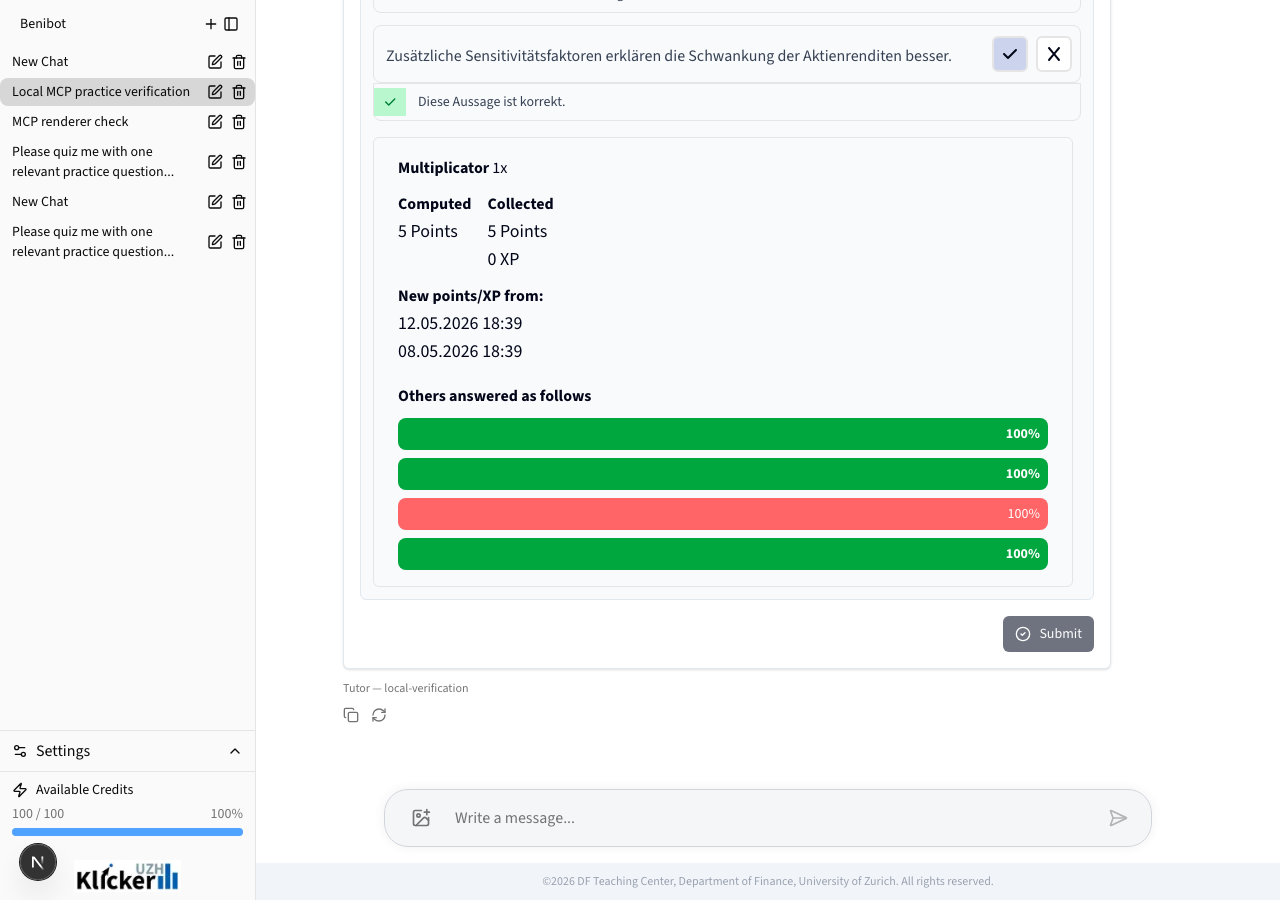
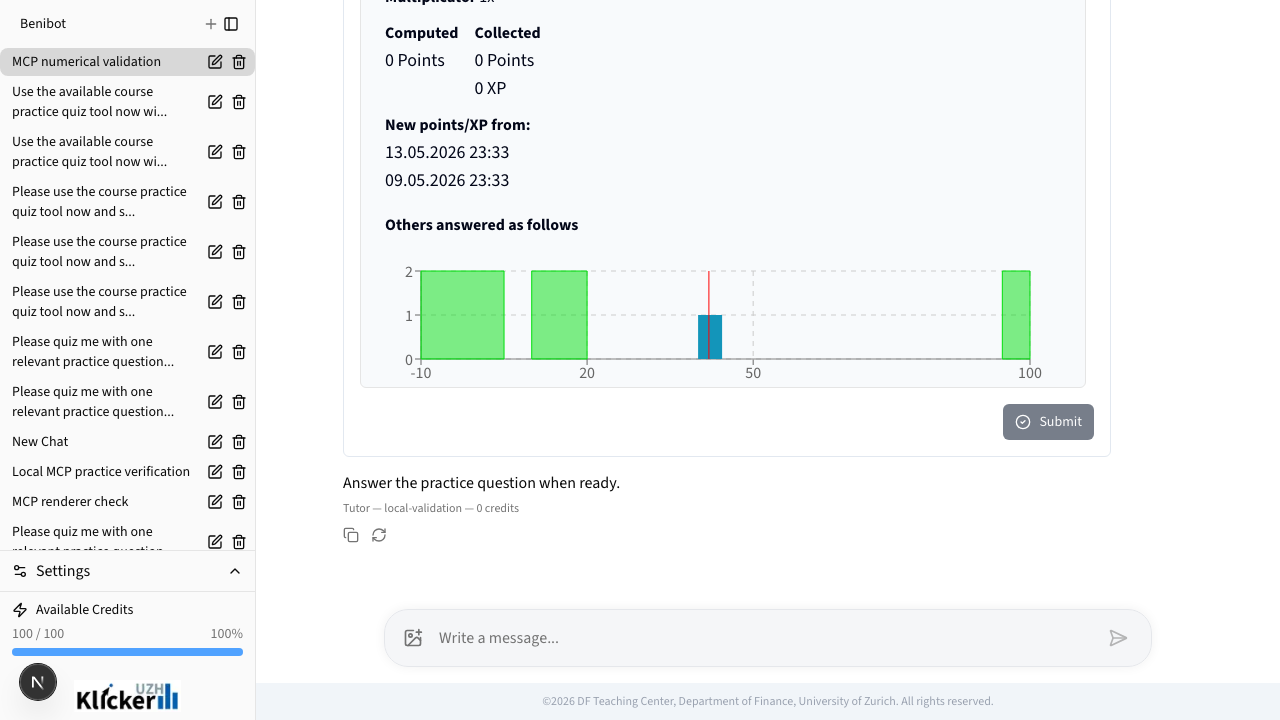
fix(mcp-student): harden student practice release path

diff --git a/apps/mcp-student/src/practice.ts b/apps/mcp-student/src/practice.ts
@@ -5,6 +5,7 @@ import {
   type StudentMcpPracticeQuiz as PracticeQuiz,
   type StudentMcpPracticeStack as PracticeStack,
   type StudentMcpQuestionRefPayload as QuestionRefPayload,
+  type StudentMcpSafeElementOptions as SafeElementOptions,
   type StudentMcpSafeStackRenderPayload as SafeStackRenderPayload,
   type StudentMcpStackResponseInput as StackResponseInput,
   type StudentMcpSupportedElementType as SupportedElementType,
@@ -28,7 +29,7 @@ function isSupportedElementType(type: string): type is SupportedElementType {
 }
 
 function orderedElements(stack: PracticeStack) {
-  return [...(stack.elements ?? [])].sort((a, b) => a.id - b.id)
+  return [...(stack.elements ?? [])]
 }
 
 export function toSupportedElementTypes(
@@ -92,7 +93,21 @@ export function assertQuestionRefMatchesStack(
     stack,
   })
 
-  if (JSON.stringify(current) !== JSON.stringify(ref)) {
+  const matches =
+    current.participantId === ref.participantId &&
+    current.chatbotId === ref.chatbotId &&
+    current.courseId === ref.courseId &&
+    current.stackId === ref.stackId &&
+    current.orderedElements.length === ref.orderedElements.length &&
+    current.orderedElements.every((element, index) => {
+      const expected = ref.orderedElements[index]
+      return (
+        element.instanceId === expected?.instanceId &&
+        element.type === expected?.type
+      )
+    })
+
+  if (!matches) {
     throw new Error('questionRef no longer matches the practice stack')
   }
 }
@@ -270,11 +285,11 @@ function elementDataTypename(elementType: SupportedElementType): string {
 function safeOptionsForElement(
   elementType: SupportedElementType,
   options: Record<string, unknown> | null | undefined
-): Record<string, unknown> | undefined {
+): SafeElementOptions | undefined {
   if (!options) return undefined
 
   if (['SC', 'MC', 'KPRIM'].includes(elementType)) {
-    const safe: Record<string, unknown> = {}
+    const safe: Extract<SafeElementOptions, { choices?: unknown }> = {}
     copyBooleanOption(options, 'hasSampleSolution', safe)
     copyStringOption(options, 'displayMode', safe)
 
@@ -283,8 +298,9 @@ function safeOptionsForElement(
         .filter((choice) => choice && typeof choice === 'object')
         .map((choice) => {
           const record = choice as Record<string, unknown>
+          const ix = Number(record.ix)
           return {
-            ix: Number(record.ix),
+            ix: Number.isFinite(ix) ? ix : 0,
             value: String(record.value ?? ''),
           }
         })
@@ -294,7 +310,7 @@ function safeOptionsForElement(
   }
 
   if (elementType === 'NUMERICAL') {
-    const safe: Record<string, unknown> = {}
+    const safe: Extract<SafeElementOptions, { accuracy?: unknown }> = {}
     copyBooleanOption(options, 'hasSampleSolution', safe)
     copyNumberOption(options, 'accuracy', safe)
     copyStringOption(options, 'placeholder', safe)
@@ -312,7 +328,7 @@ function safeOptionsForElement(
   }
 
   if (elementType === 'FREE_TEXT') {
-    const safe: Record<string, unknown> = {}
+    const safe: Extract<SafeElementOptions, { restrictions?: unknown }> = {}
     copyBooleanOption(options, 'hasSampleSolution', safe)
     if (options.restrictions && typeof options.restrictions === 'object') {
       const restrictions = options.restrictions as Record<string, unknown>
@@ -351,7 +367,6 @@ function safeElementData(element: PracticeElement) {
     name: element.elementData.name,
     type: elementType,
     content: element.elementData.content,
-    explanation: element.elementData.explanation ?? null,
     basePoints:
       typeof element.elementData.basePoints === 'boolean'
         ? element.elementData.basePoints

diff --git a/packages/types/src/studentMcp.ts b/packages/types/src/studentMcp.ts
@@ -1,4 +1,10 @@
-import type { ElementData, StackResponseInput } from './index.js'
+import type {
+  Choice,
+  ElementData,
+  FreeTextRestrictions,
+  NumericalRestrictions,
+  StackResponseInput,
+} from './index.js'
 
 export const STUDENT_MCP_SUPPORTED_ELEMENT_TYPES = [
   'SC',
@@ -68,6 +74,27 @@ export type StudentMcpSafeStackRenderPayload = {
   elements: StudentMcpSafeElementInstance[]
 }
 
+export type StudentMcpSafeChoice = Pick<Choice, 'ix' | 'value'>
+
+export type StudentMcpSafeElementOptions =
+  | {
+      hasSampleSolution?: boolean
+      displayMode?: string
+      choices?: StudentMcpSafeChoice[]
+    }
+  | {
+      hasSampleSolution?: boolean
+      accuracy?: number | null
+      placeholder?: string | null
+      unit?: string | null
+      restrictions?: NumericalRestrictions | null
+    }
+  | {
+      hasSampleSolution?: boolean
+      restrictions?: FreeTextRestrictions | null
+    }
+  | Record<string, never>
+
 export type StudentMcpSafeElementData = {
   __typename: string
   id: string
@@ -75,10 +102,9 @@ export type StudentMcpSafeElementData = {
   name: string
   type: StudentMcpSupportedElementType
   content: string
-  explanation?: string | null
   basePoints?: boolean
   pointsMultiplier?: number
-  options?: Record<string, unknown> | null
+  options?: StudentMcpSafeElementOptions | null
 }
 
 export type StudentMcpSafeElementInstance = {

diff --git a/apps/mcp-student/test/graphqlClient.test.ts b/apps/mcp-student/test/graphqlClient.test.ts
@@ -1,0 +1,31 @@
+import { describe, expect, it, vi } from 'vitest'
+import { PersistedGraphQLClient } from '../src/graphqlClient.js'
+
+describe('PersistedGraphQLClient', () => {
+  it('sends generated hash-only persisted operations', async () => {
+    const fetchImpl = vi.fn(async () => {
+      return new Response(
+        JSON.stringify({ data: { studentMcpCoursePracticeQuiz: null } }),
+        { status: 200 }
+      )
+    })
+
+    const client = new PersistedGraphQLClient(
+      'http://localhost:3000/api/graphql',
+      fetchImpl as unknown as typeof fetch
+    )
+
+    await client.getCoursePracticeQuiz(
+      { chatbotId: 'chatbot-1', courseId: 'course-1' },
+      'participant-token'
+    )
+
+    const calls = fetchImpl.mock.calls as unknown as [string, RequestInit][]
+    const [, init] = calls[0]!
+    const body = JSON.parse(String(init?.body))
+
+    expect(body.operationName).toBe('GetCoursePracticeQuizWithoutSolutions')
+    expect(body.query).toBeUndefined()
+    expect(body.extensions.persistedQuery.sha256Hash).toMatch(/^[a-f0-9]{64}$/)
+  })
+})

diff --git a/apps/mcp-student/src/config.ts b/apps/mcp-student/src/config.ts
@@ -2,7 +2,7 @@ export type RuntimeSettings = {
   appSecret: string
   apiGraphqlEndpoint: string
   host: string
-  jwtIssuer?: string
+  jwtIssuer: string
   mcpEndpoint: `/${string}`
   port: number
   questionRefSecret: string
@@ -32,14 +32,22 @@ export function getRuntimeSettings(
     /\/+$/,
     ''
   )
-  const appSecret = env.APP_SECRET ?? 'abcd'
+  const appSecret = env.APP_SECRET
+  if (!appSecret) {
+    throw new Error('APP_SECRET is required')
+  }
+
+  const jwtIssuer = env.APP_ORIGIN_AUTH
+  if (!jwtIssuer) {
+    throw new Error('APP_ORIGIN_AUTH is required')
+  }
 
   return {
     appSecret,
     apiGraphqlEndpoint:
       env.MCP_STUDENT_GRAPHQL_ENDPOINT ?? `${apiOrigin}/api/graphql`,
     host: env.MCP_STUDENT_HOST ?? '0.0.0.0',
-    jwtIssuer: env.APP_ORIGIN_AUTH,
+    jwtIssuer,
     mcpEndpoint: endpointPath(env.MCP_STUDENT_PATH),
     port: intFromEnv(env, 'MCP_STUDENT_PORT', 7080),
     questionRefSecret: env.MCP_STUDENT_QUESTION_REF_SECRET ?? appSecret,

diff --git a/apps/chat/src/app/layout.tsx b/apps/chat/src/app/layout.tsx
@@ -5,7 +5,7 @@ import {
 import 'katex/dist/katex.min.css'
 import type { Metadata } from 'next'
 import { NextIntlClientProvider } from 'next-intl'
-import { getLocale } from 'next-intl/server'
+import { getLocale, getMessages } from 'next-intl/server'
 import './globals.css'
 
 export const metadata: Metadata = {
@@ -18,6 +18,7 @@ export default async function RootLayout({
   children: React.ReactNode
 }>) {
   const locale = await getLocale()
+  const messages = await getMessages()
 
   return (
     <html lang={locale}>
@@ -33,7 +34,9 @@ export default async function RootLayout({
       <body
         className={`${sourceSansPro.variable} ${monoSpaceFont.variable} font-sans antialiased`}
       >
-        <NextIntlClientProvider>{children}</NextIntlClientProvider>
+        <NextIntlClientProvider locale={locale} messages={messages}>
+          {children}
+        </NextIntlClientProvider>
       </body>
     </html>
   )

diff --git a/apps/mcp-student/test/practice.test.ts b/apps/mcp-student/test/practice.test.ts
@@ -121,7 +121,6 @@ describe('answer-safe render payloads', () => {
       elementData: {
         __typename: 'ChoicesElementData',
         content: 'Choose one option.',
-        explanation: 'This is the hidden explanation.',
         options: {
           hasSampleSolution: true,
           displayMode: 'LIST',
@@ -132,6 +131,19 @@ describe('answer-safe render payloads', () => {
         },
       },
     })
+    expect(safe.elements[0]?.elementData).not.toHaveProperty('explanation')
+  })
+
+  it('preserves backend element order in multi-element stacks', () => {
+    const first = stack(1, 'First question', 'SC').elements![0]!
+    const second = stack(2, 'Second question', 'NUMERICAL').elements![0]!
+    const safe = toSafeStackRenderPayload({
+      id: 1,
+      displayName: 'Ordered',
+      elements: [second, first],
+    })
+
+    expect(safe.elements.map((element) => element.id)).toEqual([20, 10])
   })
 })
 

diff --git a/apps/chat/src/components/student-practice-quiz-card.tsx b/apps/chat/src/components/student-practice-quiz-card.tsx
@@ -162,9 +162,14 @@ function buildResponses({
         type: value.type,
       })
     } else if (value.type === ElementType.Numerical) {
+      const numericalResponse = parseFloat(value.response as string)
+      if (!Number.isFinite(numericalResponse)) {
+        throw new Error('Please enter a valid number before submitting.')
+      }
+
       responses.push({
         instanceId: element.id,
-        numericalResponse: parseFloat(value.response as string),
+        numericalResponse,
         type: value.type,
       })
     } else if (value.type === ElementType.FreeText) {

diff --git a/apps/chat/src/components/tool-fallback.tsx b/apps/chat/src/components/tool-fallback.tsx
@@ -1,3 +1,4 @@
+import { STUDENT_PRACTICE_QUIZ_TOOL_NAME } from '@/src/services/studentPracticeMcp'
 import {
   ChevronDownIcon,
   ChevronRightIcon,
@@ -72,7 +73,7 @@ export const ToolFallback: FC<ToolFallbackProps> = ({
   const [isCollapsed, setIsCollapsed] = useState(true)
   const { server, tool } = formatToolName(toolName)
 
-  if (toolName === 'start_student_practice_quiz') {
+  if (toolName === STUDENT_PRACTICE_QUIZ_TOOL_NAME) {
     return <StudentPracticeQuizCard result={result} status={status} />
   }
 

diff --git a/apps/mcp-student/src/server.ts b/apps/mcp-student/src/server.ts
@@ -72,7 +72,10 @@ function errorMessage(error: unknown): string {
 }
 
 function errorCode(message: string): StudentMcpToolErrorCode {
-  if (message === 'Missing authenticated participant session') {
+  if (
+    message === 'Missing authenticated participant session' ||
+    message === 'Missing Authorization bearer token'
+  ) {
     return 'UNAUTHENTICATED'
   }
   if (/questionRef has expired/i.test(message)) {

diff --git a/apps/mcp-student/src/graphqlClient.ts b/apps/mcp-student/src/graphqlClient.ts
@@ -64,8 +64,10 @@ export class PersistedGraphQLClient {
     })
 
     if (!response.ok) {
+      const body = await response.text().catch(() => '')
+      const details = body ? `: ${body.slice(0, 500)}` : ''
       throw new Error(
-        `GraphQL ${operationName} failed with HTTP ${response.status}`
+        `GraphQL ${operationName} failed with HTTP ${response.status}${details}`
       )
     }
 

diff --git a/apps/chat/src/lib/server/mcpAuthMint.ts b/apps/chat/src/lib/server/mcpAuthMint.ts
@@ -45,6 +45,12 @@ export async function mintParticipantMcpJwt(
   }
 
   const now = Date.now()
+  for (const [cachedParticipantId, entry] of cache) {
+    if (now - entry.mintedAtMs > CACHE_TTL_MS) {
+      cache.delete(cachedParticipantId)
+    }
+  }
+
   const cached = cache.get(participantId)
   if (cached && now - cached.mintedAtMs <= CACHE_TTL_MS) {
     return cached.jwt

diff --git a/apps/chat/src/app/api/chatbots/[chatbotId]/practice/submit/route.ts b/apps/chat/src/app/api/chatbots/[chatbotId]/practice/submit/route.ts
@@ -76,7 +76,6 @@ export async function POST(
     return NextResponse.json(result)
   } catch (error) {
     console.error('Failed to submit student practice answer:', {
-      chatbotId,
       error,
     })
 
